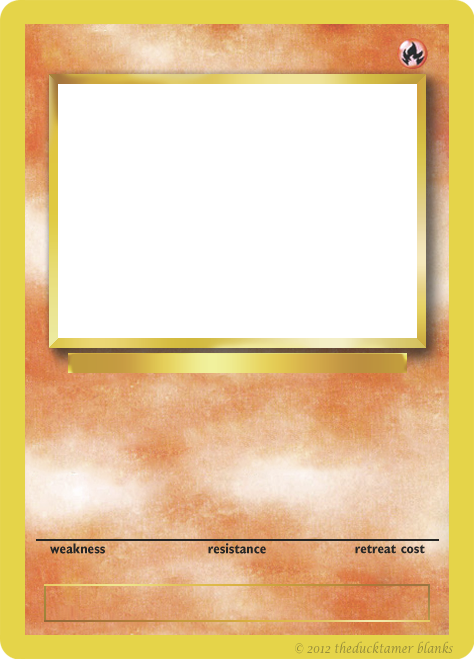
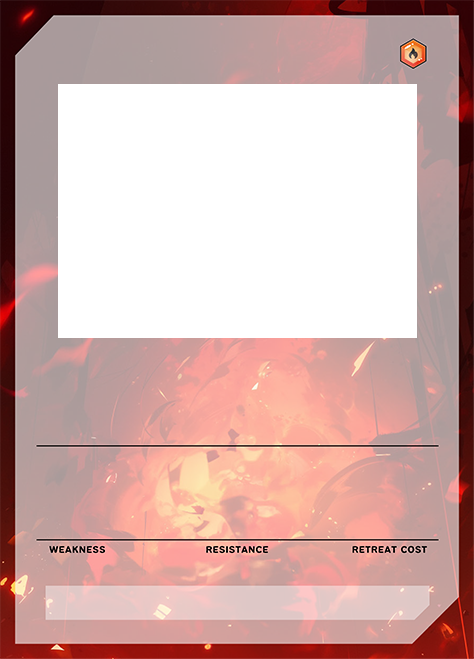
IMPLEMENTED: New card designs and got rid of two of the pokemon elements from the home component

diff --git a/client/src/components/Home.js b/client/src/components/Home.js
@@ -112,9 +112,9 @@ const Home = ({pokeJson, setPokeJson, setLocation}) => {
                   <div className={`generateElementTile${elementString === 'neutral' ? ' selected' : ''}`} onClick={(e)=>{setElementString(e.target.dataset.value)}} data-value="neutral">Normal</div>
                   <div className={`generateElementTile${elementString === 'fighting' ? ' selected' : ''}`} onClick={(e)=>{setElementString(e.target.dataset.value)}} data-value="fighting">Fighting</div>
                   <div className={`generateElementTile${elementString === 'dark' ? ' selected' : ''}`} onClick={(e)=>{setElementString(e.target.dataset.value)}} data-value="dark">Darkness</div>
-                  <div className={`generateElementTile${elementString === 'metal' ? ' selected' : ''}`} onClick={(e)=>{setElementString(e.target.dataset.value)}} data-value="metal">Metal</div>
                   <div className={`generateElementTile${elementString === 'fairy' ? ' selected' : ''}`} onClick={(e)=>{setElementString(e.target.dataset.value)}} data-value="fairy">Fairy</div>
-                  <div className={`generateElementTile${elementString === 'dragon' ? ' selected' : ''}`} onClick={(e)=>{setElementString(e.target.dataset.value)}} data-value="dragon">Dragon</div>
+                  {/* <div className={`generateElementTile${elementString === 'dragon' ? ' selected' : ''}`} onClick={(e)=>{setElementString(e.target.dataset.value)}} data-value="dragon">Dragon</div>
+                  <div className={`generateElementTile${elementString === 'metal' ? ' selected' : ''}`} onClick={(e)=>{setElementString(e.target.dataset.value)}} data-value="metal">Metal</div> */}
               </div>
             </div>
             <div className='generateButtonContainer'>
